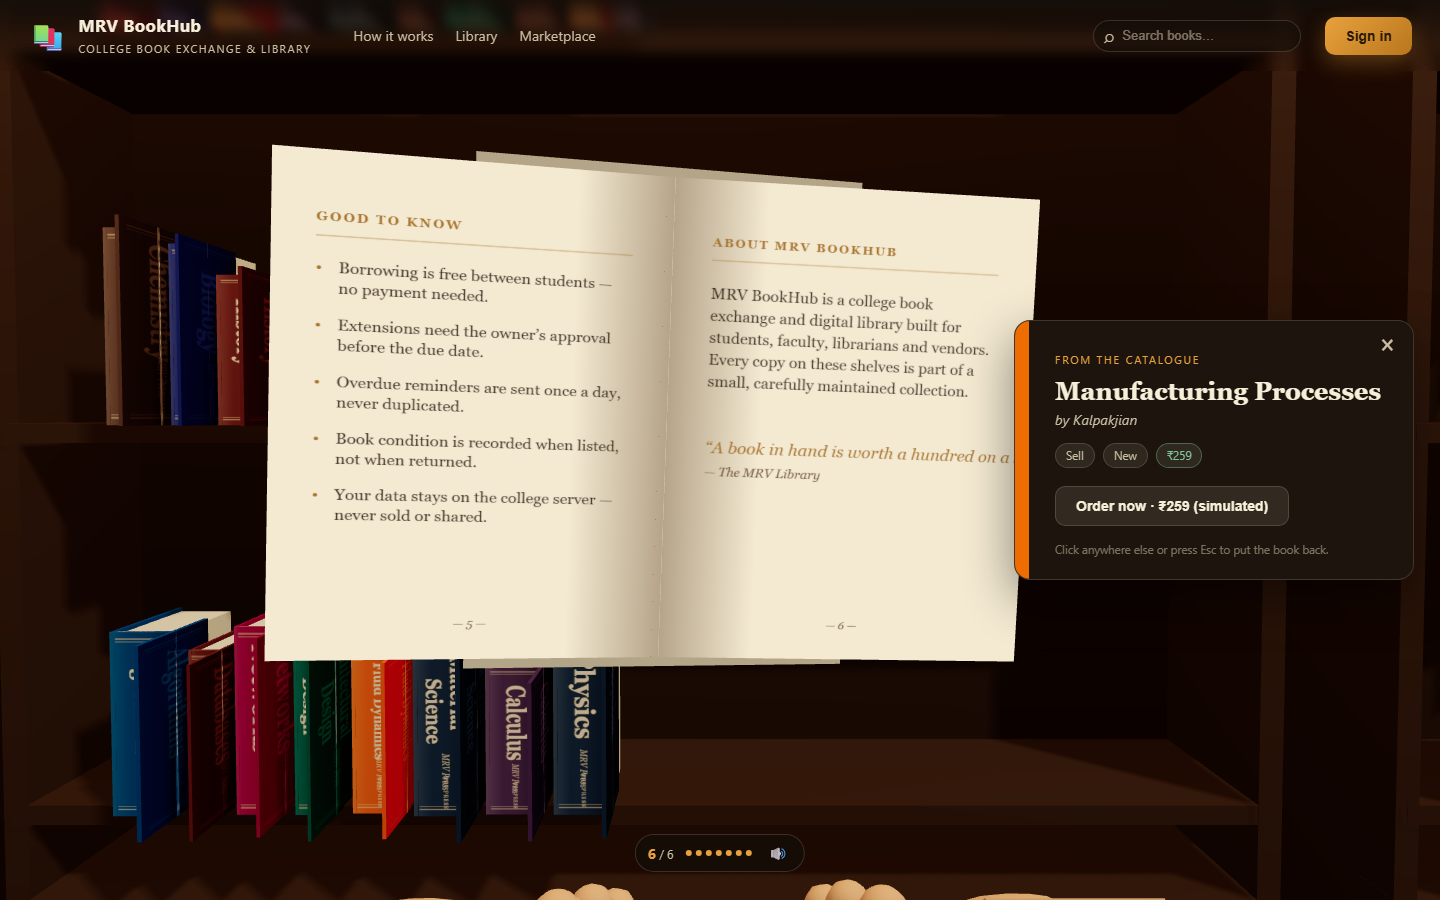
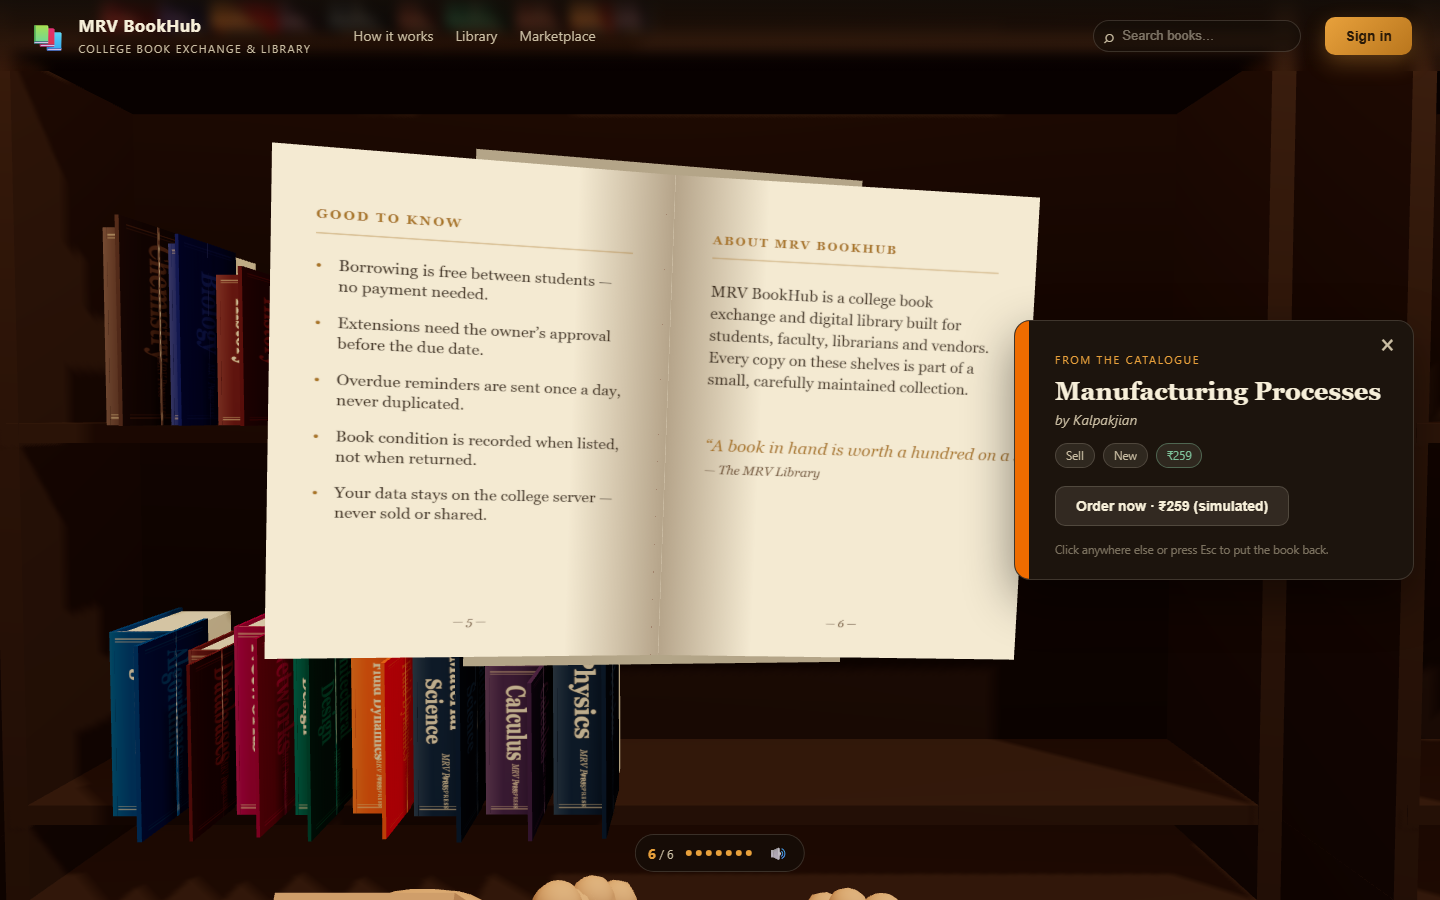
Fix blank right page: single double-sided textured plane, no under-leaf blocks

diff --git a/frontend/tests/page1-probe.py b/frontend/tests/page1-probe.py
@@ -1,0 +1,18 @@
+from playwright.sync_api import sync_playwright
+
+with sync_playwright() as p:
+    b = p.chromium.launch(headless=True, args=["--use-gl=swiftshader"])
+    page = b.new_page(viewport={"width": 1440, "height": 900})
+    errs = []
+    page.on("pageerror", lambda e: errs.append(str(e)))
+    page.on("console", lambda m: print("C:", m.text[:150]) if "error" in m.text.lower() else None)
+    page.goto("http://localhost:5173", wait_until="networkidle")
+    page.wait_for_timeout(3500)
+    page.mouse.wheel(0, 400); page.wait_for_timeout(1200)
+    page.mouse.move(975, 425); page.wait_for_timeout(400)
+    page.mouse.click(975, 425); page.wait_for_timeout(3500)
+    body = page.inner_text("body")
+    print("ABOUT in body:", "ABOUT THIS BOOK" in body)
+    print("errors:", errs[:2] or "none")
+    page.screenshot(path="tests/screenshots/page1-check.png")
+    b.close()
